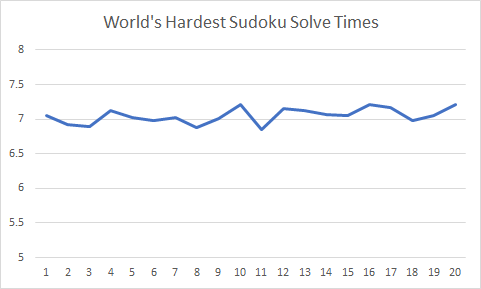
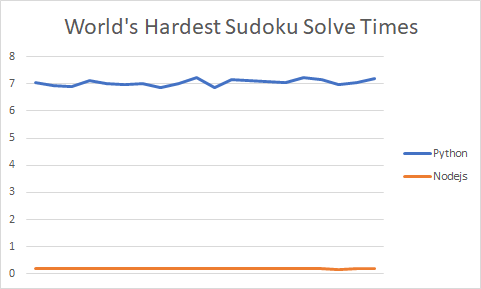
update session timing

diff --git a/README.md b/README.md
@@ -10,7 +10,7 @@ Using Recursive Backtracking against World's Hardest Sudoku, I will compare runt
 | Languages     | Second(s)     |
 | ------------- |--------------:| 
 | Python        | 7.0486        |
-| Node.js       | 0.3047        |
+| Node.js       | 0.1961        |
 | C#            | ...           |
 | C++           | ...           |
 
@@ -19,6 +19,6 @@ Python
 > Over 20 runs with the World's hardest sudoku, this program averages a solving time of 7.04 seconds.
 
 Nodejs
-> Over 20 runs with the World's hardest sudoku, this program averages a solving time of 0.304 seconds.
+> Over 20 runs with the World's hardest sudoku, this program averages a solving time of 0.196 seconds.
 
 ![Timesheet](img/Timesheet.png)
